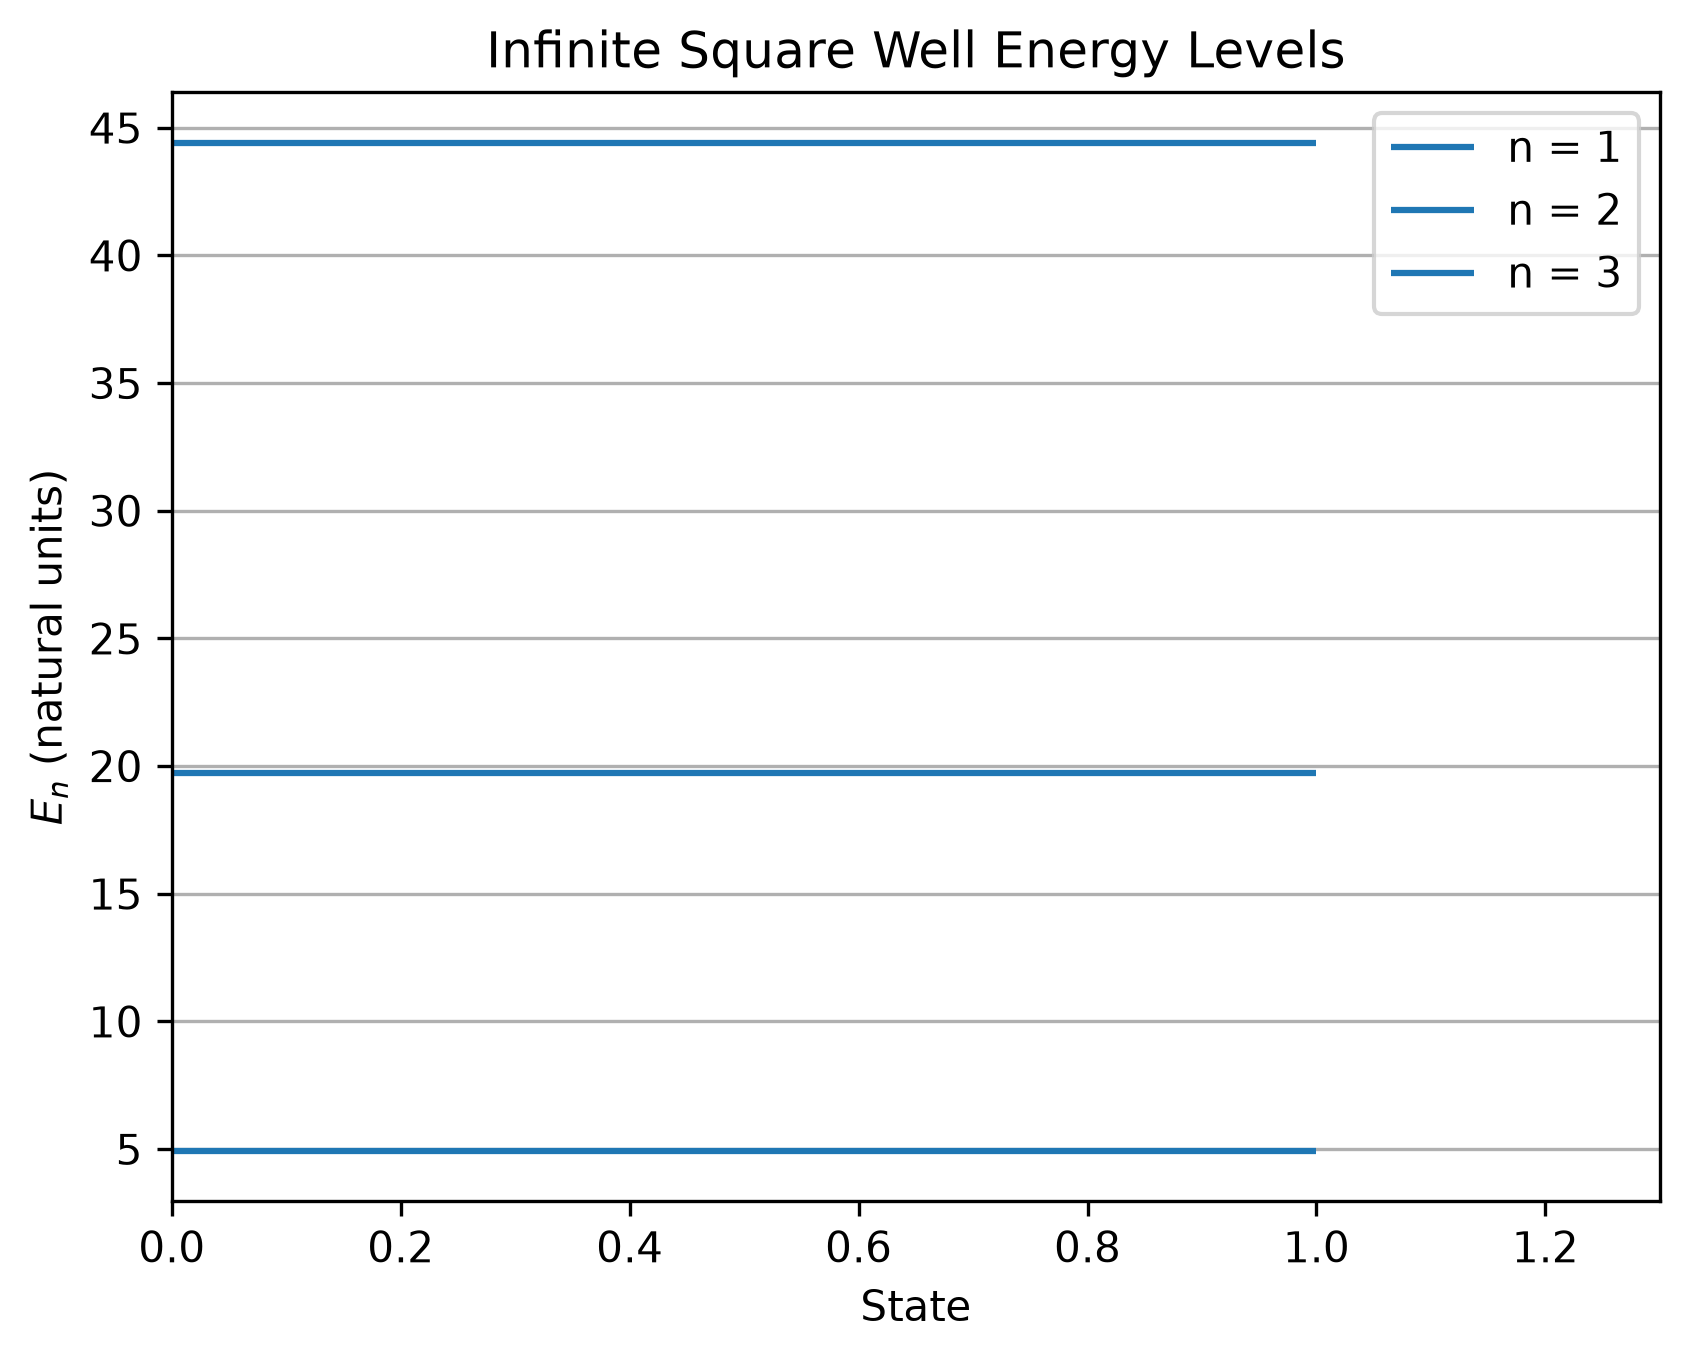
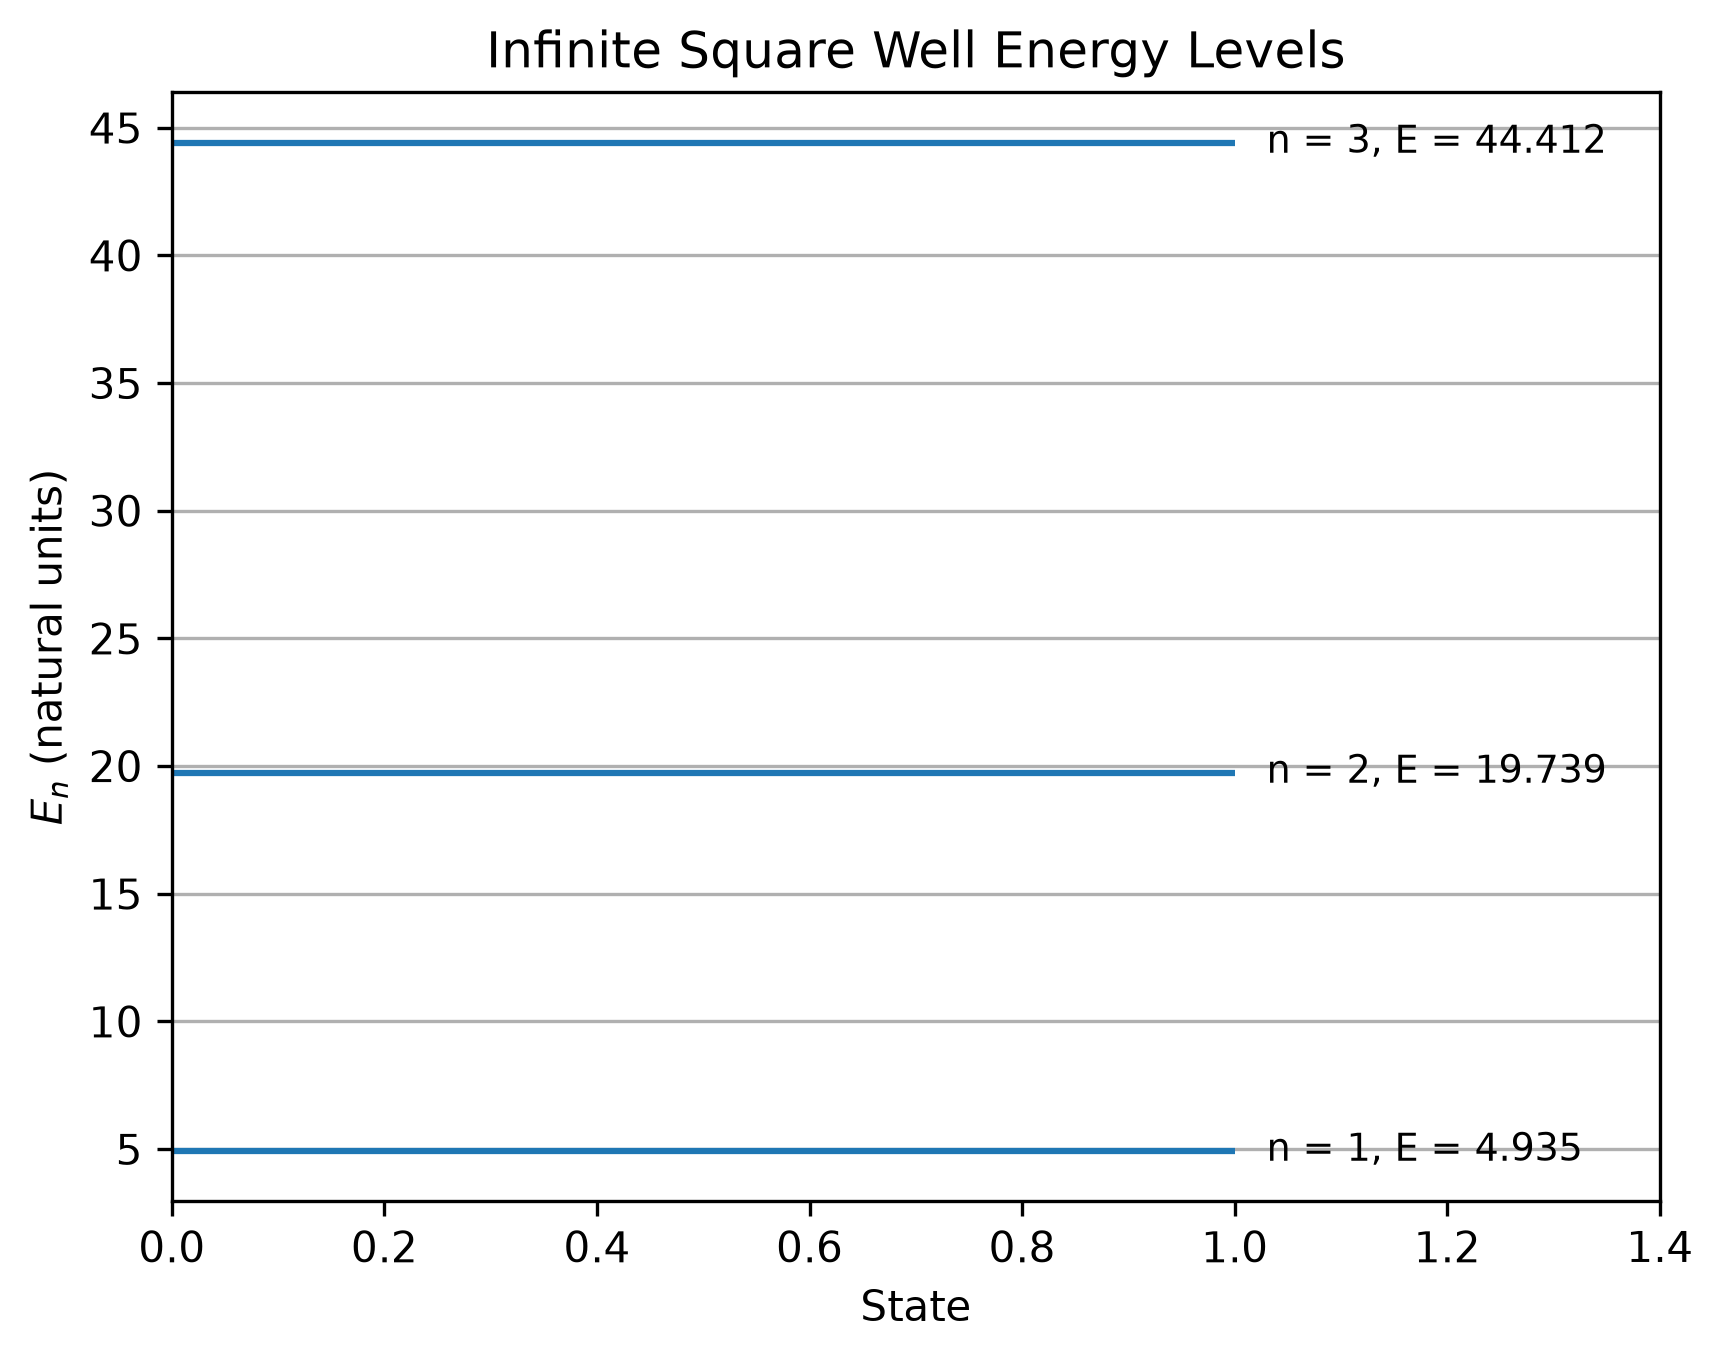
Update infinite square well to use quantum utilities
- Solve the infinite square well numerically using solve_schrodinger
- Apply zero boundary conditions at both ends
- Compare numerical energies with analytical results
- Update wavefunction, probability density, and energy level plots

diff --git a/infinite_square_well.py b/infinite_square_well.py
@@ -1,15 +1,105 @@
 import numpy as np
 import matplotlib.pyplot as plt
 
-# Infinite square well parameters
-L = 1
-x = np.linspace(0, L, 500)
-n_values = [1, 2, 3]
+from quantum_utils import (
+    solve_schrodinger,
+    probability_density
+)
 
-# Wavefunctions
-for n in n_values:
-    psi = np.sqrt(2 / L) * np.sin(n * np.pi * x / L)
-    plt.plot(x, psi, label=f"n = {n}")
+
+# Infinite square well parameters
+
+L = 1.0
+hbar = 1.0
+mass = 1.0
+
+number_of_grid_points = 500
+number_of_states = 3
+
+x = np.linspace(0, L, number_of_grid_points)
+
+
+# The infinite square well requires:
+# psi(0) = psi(L) = 0
+#
+# Therefore, solve the Schrödinger equation only on the
+# interior grid points.
+
+x_interior = x[1:-1]
+
+potential_interior = np.zeros_like(x_interior)
+
+
+# Solve the time-independent Schrödinger equation
+
+energies, wavefunctions_interior = solve_schrodinger(
+    x=x_interior,
+    potential=potential_interior,
+    hbar=hbar,
+    mass=mass,
+    number_of_states=number_of_states
+)
+
+
+# Add the boundary values psi(0) = psi(L) = 0
+
+wavefunctions = np.zeros(
+    (number_of_grid_points, number_of_states)
+)
+
+wavefunctions[1:-1, :] = wavefunctions_interior
+
+
+# The overall sign of an eigenfunction is arbitrary.
+# Flip each wavefunction so that it begins in the positive direction.
+
+for state_index in range(number_of_states):
+    if wavefunctions[1, state_index] < 0:
+        wavefunctions[:, state_index] *= -1
+
+
+# Compare numerical and analytical energies
+
+n_values = np.arange(1, number_of_states + 1)
+
+analytical_energies = (
+    n_values**2
+    * np.pi**2
+    * hbar**2
+    / (2 * mass * L**2)
+)
+
+print("Infinite square well energy comparison:\n")
+
+for state_index, n in enumerate(n_values):
+    numerical_energy = energies[state_index]
+    analytical_energy = analytical_energies[state_index]
+
+    relative_error = (
+        abs(numerical_energy - analytical_energy)
+        / analytical_energy
+    )
+
+    print(
+        f"n = {n}: "
+        f"numerical = {numerical_energy:.8f}, "
+        f"analytical = {analytical_energy:.8f}, "
+        f"relative error = {relative_error:.2e}"
+    )
+
+
+# Plot the numerical wavefunctions
+
+plt.figure()
+
+for state_index, n in enumerate(n_values):
+    psi = wavefunctions[:, state_index]
+
+    plt.plot(
+        x,
+        psi,
+        label=f"n = {n}"
+    )
 
 plt.xlabel("x")
 plt.ylabel(r"$\psi_n(x)$")
@@ -26,15 +116,24 @@ plt.savefig(
 plt.show()
 
 
-# Probability densities
-for n in n_values:
-    psi = np.sqrt(2 / L) * np.sin(n * np.pi * x / L)
-    probability = np.abs(psi) ** 2
-    plt.plot(x, probability, label=f"n = {n}")
+# Plot the probability densities
+
+plt.figure()
+
+for state_index, n in enumerate(n_values):
+    psi = wavefunctions[:, state_index]
+
+    probability = probability_density(psi)
+
+    plt.plot(
+        x,
+        probability,
+        label=f"n = {n}"
+    )
 
 plt.xlabel("x")
 plt.ylabel(r"$|\psi_n(x)|^2$")
-plt.title("Probability Densities")
+plt.title("Infinite Square Well Probability Densities")
 plt.grid()
 plt.legend()
 
@@ -47,26 +146,32 @@ plt.savefig(
 plt.show()
 
 
-# Energy level diagram in natural units
-hbar = 1
-m = 1
+# Plot the numerical energy levels
 
-for n in n_values:
-    energy = n**2 * np.pi**2 * hbar**2 / (2 * m * L**2)
+plt.figure()
+
+for state_index, n in enumerate(n_values):
+    energy = energies[state_index]
 
     plt.hlines(
         energy,
         xmin=0,
-        xmax=1,
-        label=f"n = {n}"
+        xmax=1
     )
 
-plt.xlim(0, 1.3)
+    plt.text(
+        1.03,
+        energy,
+        f"n = {n}, E = {energy:.3f}",
+        va="center",
+        fontsize=9
+    )
+
+plt.xlim(0, 1.4)
 plt.xlabel("State")
 plt.ylabel(r"$E_n$ (natural units)")
 plt.title("Infinite Square Well Energy Levels")
 plt.grid(axis="y")
-plt.legend()
 
 plt.savefig(
     "figures/infinite_well_energy_levels.png",